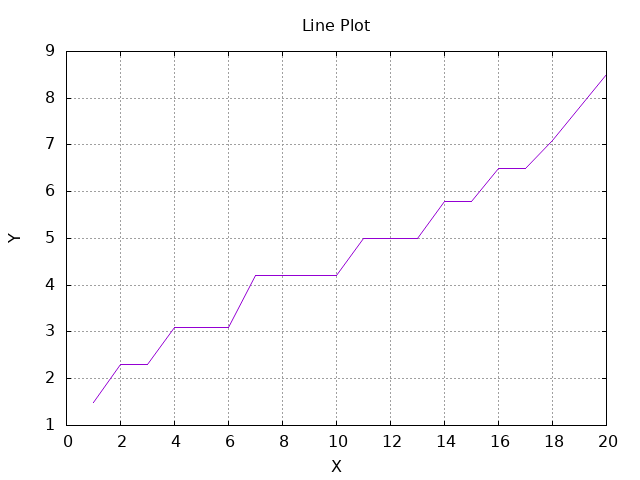
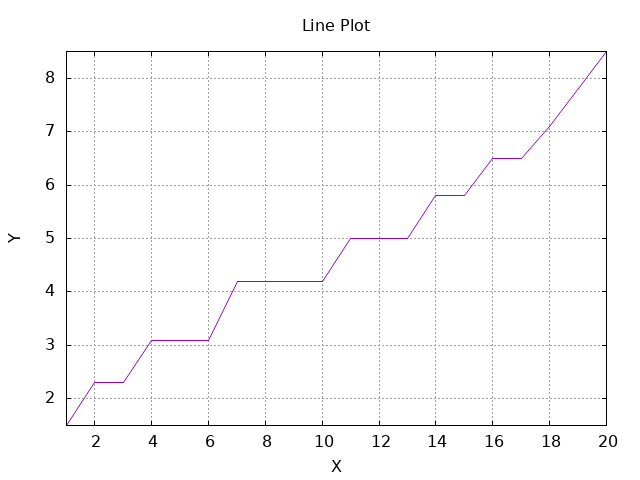
Added Bound Setting for lineplot and fixed multiple load bug

diff --git a/src/Histogram.cpp b/src/Histogram.cpp
@@ -276,6 +276,35 @@ bool Histogram::exportLinePlot(const string& fileName){
     gpFile << "set ylabel 'Y'" << endl;
     gpFile << "set datafile separator ','" << endl;
     gpFile << "set grid" << endl;
+
+    //Setting Bounds for the plot
+    double xMin = data[0].x; 
+    double xMax = data[0].x;
+    double yMin = data[0].y;
+    double yMax = data[0].y;
+
+    for (size_t i = 1; i < data.size(); i++){
+        //Min for both x & y
+        if (data[i].x < xMin) xMin = data[i].x;
+        if (data[i].y < yMin) yMin = data[i].y;
+
+        //Max for both x & y
+        if (data[i].x > xMax) xMax = data[i].x;
+        if (data[i].y > yMax) yMax = data[i].y;
+    }
+ 
+    gpFile << "unset autoscale" << endl; //overriding defaulted bounds
+
+    gpFile << "set xrange [" << xMin << ":" << xMax << "]" << endl;
+
+    if (yMin < 1e-6){ //Y values are very small
+        gpFile << "set logscale y" << endl;
+        gpFile << "set yrange [" << max(yMin, 1e-300) << ":" << yMax << "]" << endl; // Max compares both values and returns the higher one; prevents logscaling of 0 which is undef.
+        } else {
+            gpFile << "set yrange [" << yMin << ":" << yMax << "]" << endl;
+        }
+
+
     gpFile << "plot 'images/" << fileName << "' skip 1 using 1:2 with lines notitle" << endl;
     gpFile.close();
 

diff --git a/src/main.cpp b/src/main.cpp
@@ -116,6 +116,8 @@ int main() {
         {
         case 1: // Load file
 
+            ds.clearData(); // clear previous data before loading new file
+
             cout << "What is the filepath for your chosen csv/txt file?" << endl;
             cin >> chosenfPath;
 
